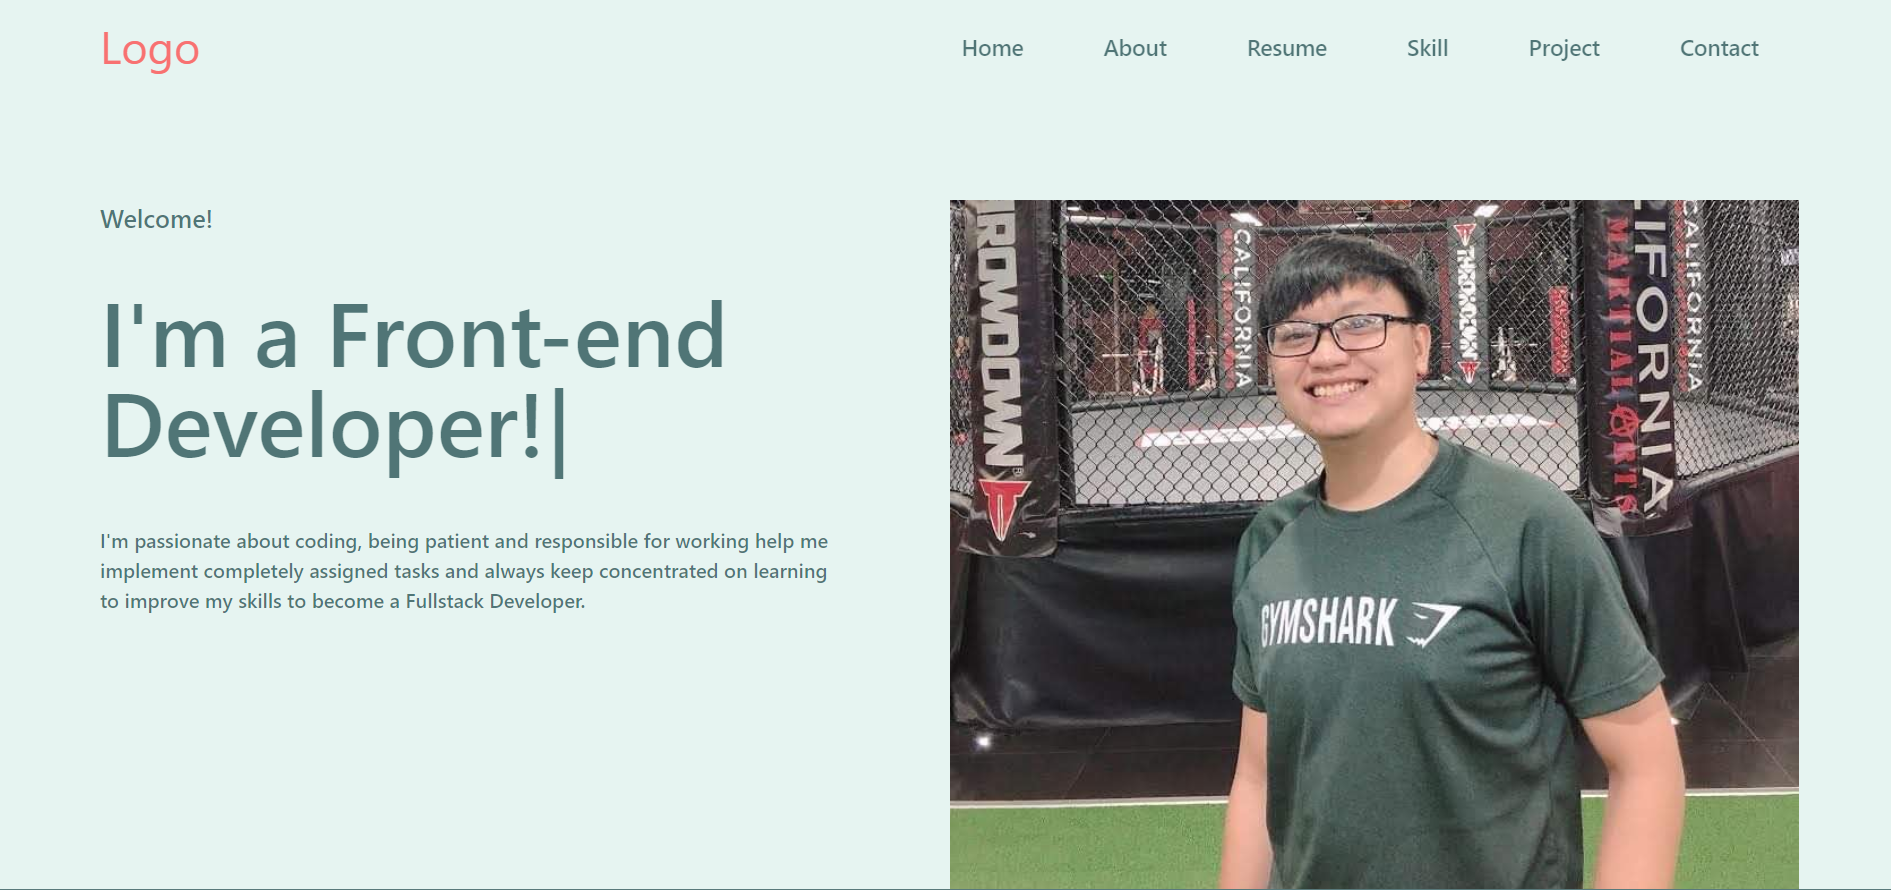
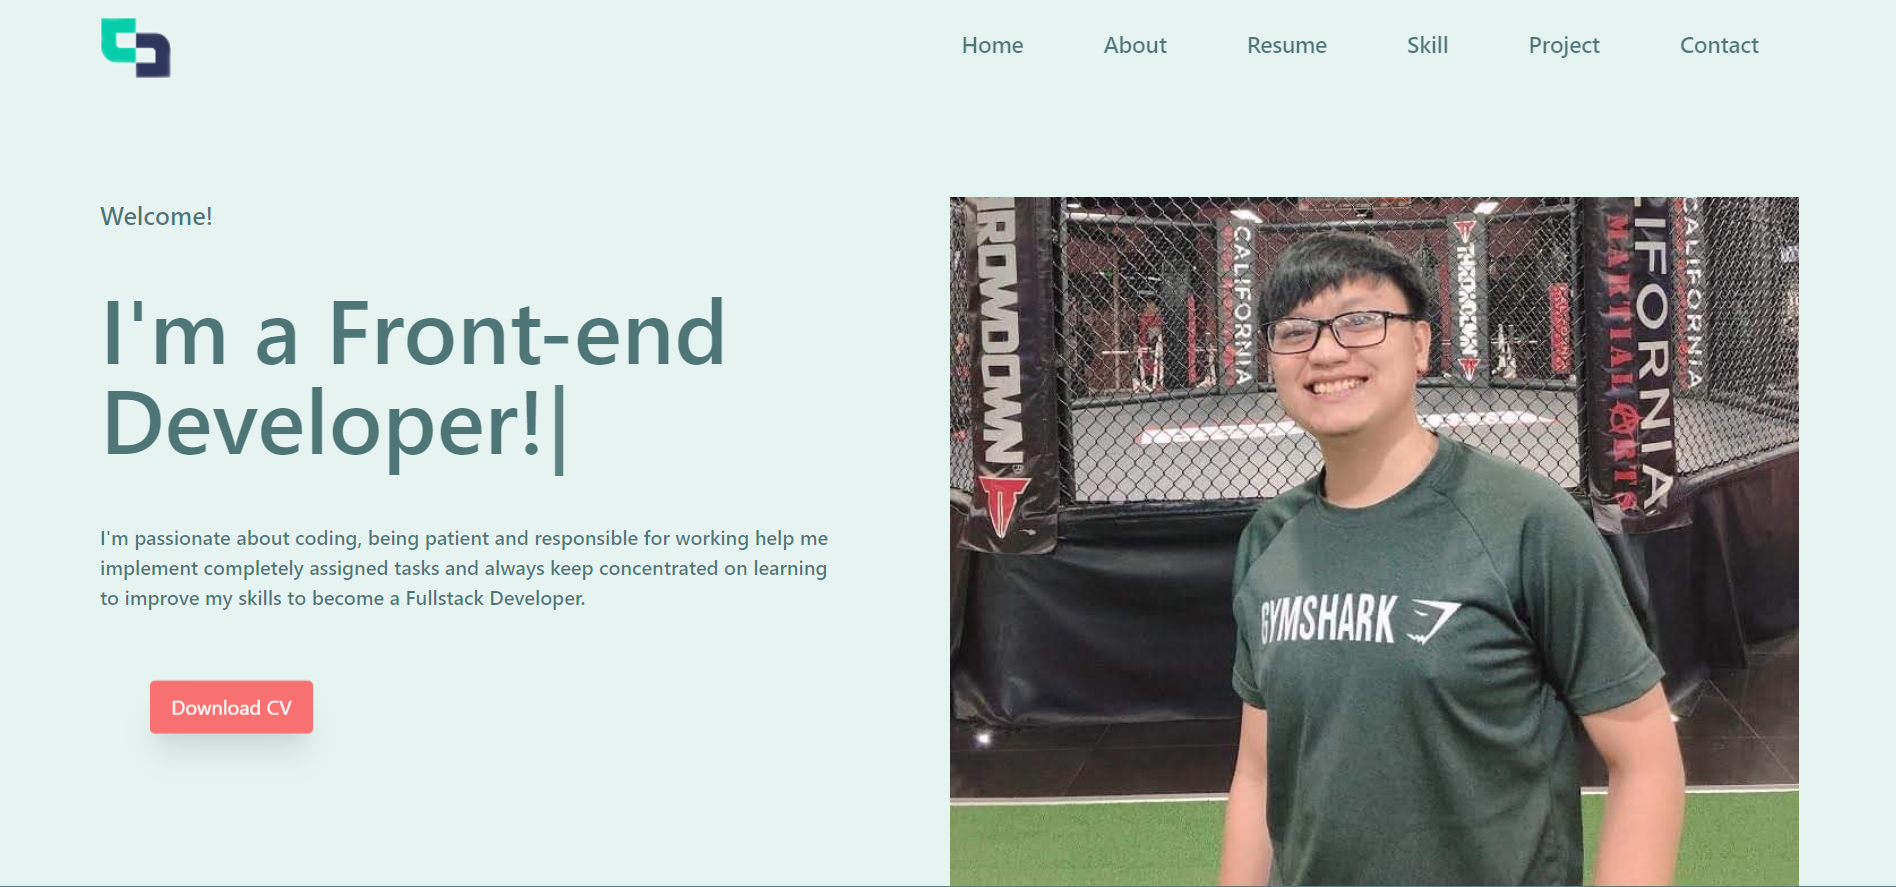
add new project & downloadCv feature

diff --git a/src/Component/Project/index.jsx b/src/Component/Project/index.jsx
@@ -4,7 +4,6 @@ import projectImg1 from "../../assets/img/project1.PNG";
 import projectImg2 from "../../assets/img/project2.PNG";
 import projectImg3 from "../../assets/img/project3.PNG";
 
-
 import "./index.css";
 
 const Project = () => {
@@ -26,7 +25,7 @@ const Project = () => {
       </h2>
       <Slider {...settings}>
         {/* P1 */}
-        <div className="relative flex w-1/2" data-aos="flip-left" data-aos-duration="1500">
+        <div className="relative flex w-1/2">
           <div>
             <img
               src={projectImg1}

diff --git a/src/Component/Banner/index.jsx b/src/Component/Banner/index.jsx
@@ -39,7 +39,7 @@ const Banner = () => {
             </p>
           </div>
 
-          <div className="pt-16 ml-10">
+          <div className="xl:pt-16 xl:ml-10 mb-8 ">
             <button onClick={saveFile} className="px-4 py-2 border border-red-400 bg-red-400 rounded text-white shadow-xl animate-bounce">Download CV</button>
           </div>
         </div>
